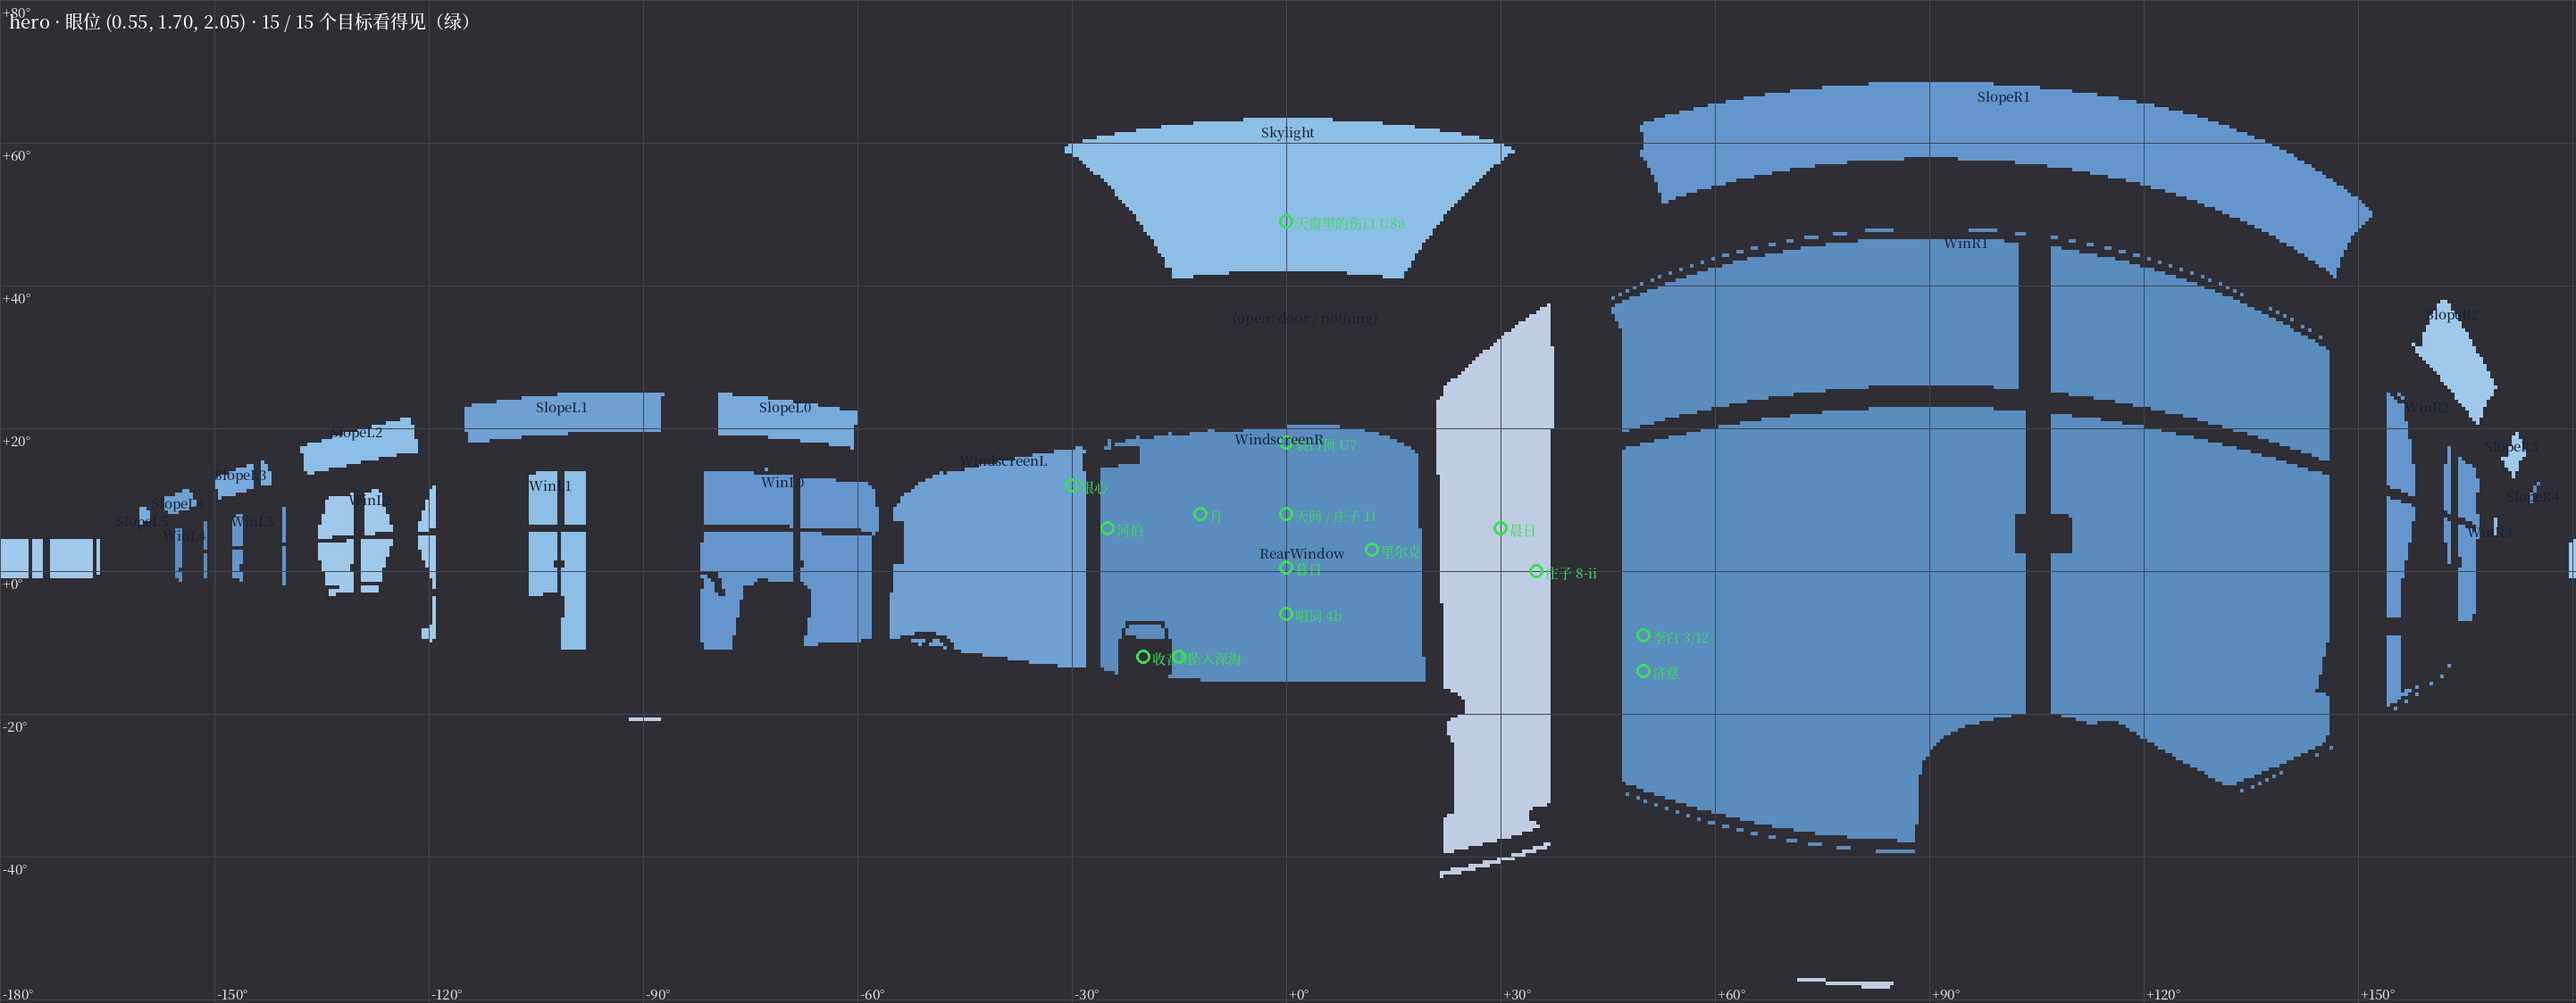
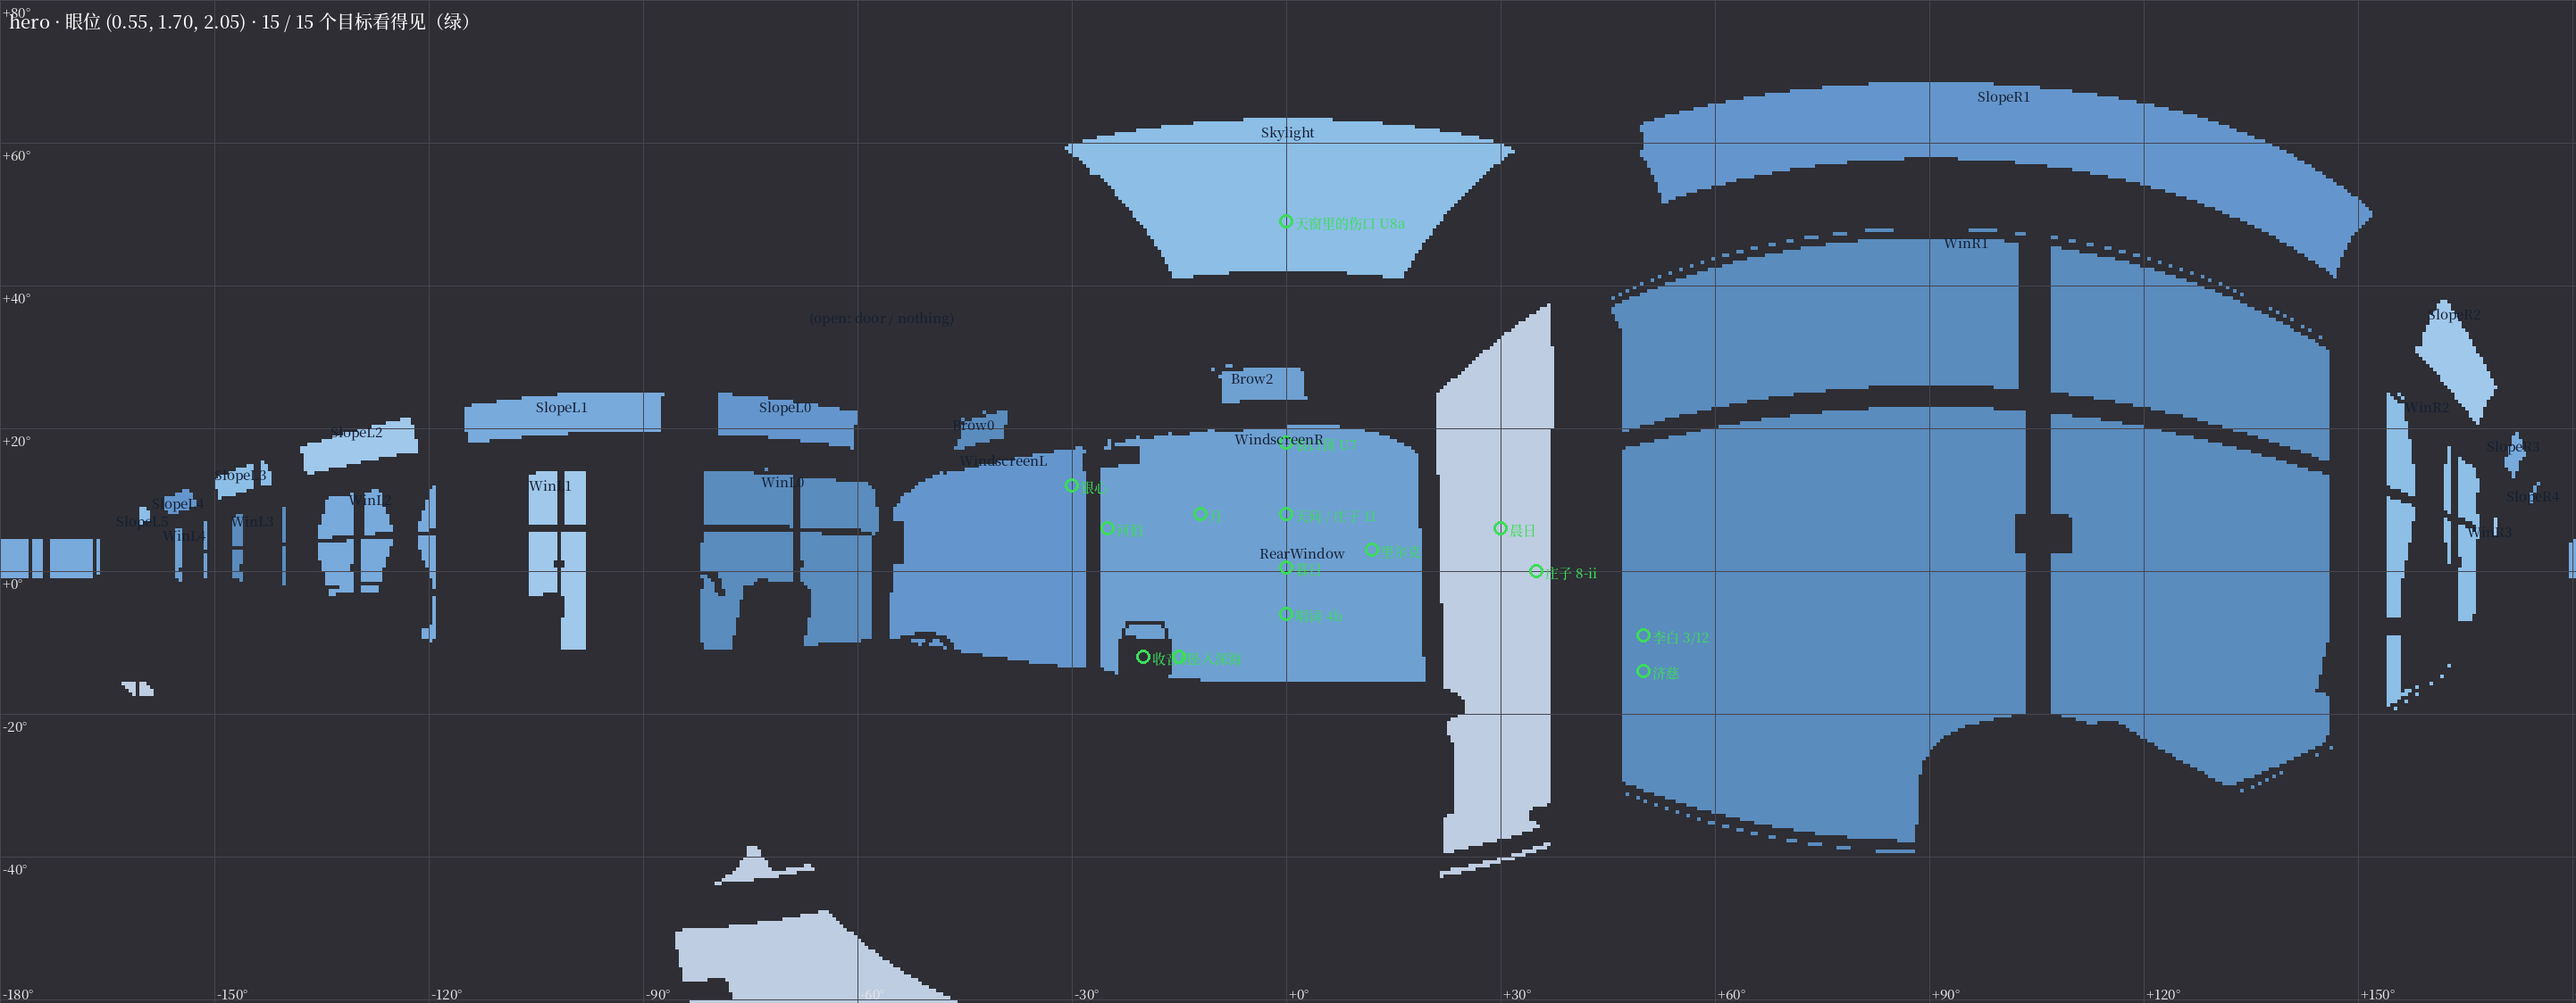
Bus: D-33 occlusion grid for other packages (hero_occlusion.npz 0.25 deg + occlusion_lookup.py, no Blender needed), refreshed view maps of the r03b bus, hero side-window structure in the README
Claude-Session: https://claude.ai/code/session_013SjpeJBeaXRUY3G1gtzNdg

diff --git a/Bus/Source/occlusion_lookup.py b/Bus/Source/occlusion_lookup.py
@@ -1,0 +1,68 @@
+# -*- coding: utf-8 -*-
+"""给别的包用的遮挡查询（D-33）：不需要 Blender。读 `Bus/Docs~/viewcheck/<name>_occlusion.npz`（viewcheck.py --export-grid 写的，
+从眼位按 0.25° 网格对真车网格打射线，记第一个碰到的不透明件；玻璃不算遮挡），回答“这个方位 / 仰角矩形被挡掉多少、被什么挡”。
+
+    from occlusion_lookup import Occlusion
+    occ = Occlusion('Bus/Docs~/viewcheck/hero_occlusion.npz')
+    occ.rect(az0, az1, el0, el1)       # -> dict(blocked=0..1, by={'Body': 0.12, ...}, window={'WindscreenR': 0.9, ...})
+    occ.point(az, el)                  # -> ('WindscreenR' | 'open' | 不透明件名, opaque bool)
+
+命令行：python3 Bus/Source/occlusion_lookup.py --rect 2.0,13.0,-8.0,-2.5 [--grid ...]
+方位 0 = 车头、+ = 右（车门一侧）；仰角 + = 上；度。眼位见 npz 里的 eye。网格 0.25°：比这更细的东西（< 0.25° 的细件）可能漏掉，
+要精确就用 viewcheck.py 直接对网格打（见 README）。
+"""
+import argparse
+import json
+import os
+
+import numpy as np
+
+HERE = os.path.dirname(os.path.abspath(__file__))
+
+
+class Occlusion:
+    def __init__(self, path=os.path.join(HERE, '..', 'Docs~', 'viewcheck', 'hero_occlusion.npz')):
+        d = np.load(path, allow_pickle=False)
+        self.az = d['az']                    # ascending
+        self.el = d['el']                    # ascending
+        self.ids = d['ids']                  # [len(el), len(az)] int16: >= 0 opaque part id, -1 open air, <= -2 window (-2 - k)
+        self.parts = json.loads(str(d['parts']))
+        self.windows = json.loads(str(d['windows']))
+        self.eye = d['eye'].tolist()
+
+    def _cells(self, az0, az1, el0, el1):
+        ia = np.where((self.az >= min(az0, az1)) & (self.az <= max(az0, az1)))[0]
+        ie = np.where((self.el >= min(el0, el1)) & (self.el <= max(el0, el1)))[0]
+        return self.ids[np.ix_(ie, ia)]
+
+    def rect(self, az0, az1, el0, el1):
+        c = self._cells(az0, az1, el0, el1)
+        n = c.size
+        if n == 0:
+            return dict(blocked=0.0, by={}, window={}, cells=0)
+        by, win = {}, {}
+        for v, k in zip(*np.unique(c, return_counts=True)):
+            if v >= 0:
+                by[self.parts[v]] = round(k / n, 4)
+            elif v == -1:
+                win['open'] = round(k / n, 4)
+            else:
+                win[self.windows[-2 - v]] = round(k / n, 4)
+        return dict(blocked=round(float((c >= 0).sum()) / n, 4), by=by, window=win, cells=int(n))
+
+    def point(self, az, el):
+        i = int(np.argmin(np.abs(self.el - el)))
+        j = int(np.argmin(np.abs(self.az - az)))
+        v = int(self.ids[i, j])
+        if v >= 0:
+            return self.parts[v], True
+        return ('open' if v == -1 else self.windows[-2 - v]), False
+
+
+if __name__ == '__main__':
+    ap = argparse.ArgumentParser()
+    ap.add_argument('--grid', default=os.path.join(HERE, '..', 'Docs~', 'viewcheck', 'hero_occlusion.npz'))
+    ap.add_argument('--rect', required=True, help='az0,az1,el0,el1 (degrees)')
+    a = ap.parse_args()
+    r = [float(v) for v in a.rect.split(',')]
+    print(json.dumps(Occlusion(a.grid).rect(*r), ensure_ascii=False, indent=1))

diff --git a/Bus/Source/viewcheck.py b/Bus/Source/viewcheck.py
@@ -77,6 +77,7 @@ def main():
     ap.add_argument('--name', default='hero')
     ap.add_argument('--step', type=float, default=0.5)
     ap.add_argument('--no-build', action='store_true')
+    ap.add_argument('--export-grid', type=float, default=0.0, help='also write <name>_occlusion.npz at this step (deg) for occlusion_lookup.py (D-33)')
     a = ap.parse_args()
     eye = tuple(float(v) for v in a.eye.split(','))
     if not a.no_build:
@@ -110,6 +111,25 @@ def main():
     if len(ii):
         win['(open: door / nothing)'] = dict(az=[float(azs[jj].min()), float(azs[jj].max())], el=[float(els[ii].min()), float(els[ii].max())], solid_angle_cells=int(len(ii)))
     json.dump(win, open(os.path.join(a.out, a.name + '_windows.json'), 'w'), ensure_ascii=False, indent=1)
+    if a.export_grid > 0:
+        st = a.export_grid
+        gaz = np.arange(-180, 180 + 1e-6, st)
+        gel = np.arange(-60, 80 + 1e-6, st)
+        ids = np.zeros((len(gel), len(gaz)), np.int16)
+        parts, wins = {}, {}
+        for i, el in enumerate(gel):
+            for j, az in enumerate(gaz):
+                passed, opq = cast(bvh, owner, eb, U2B(B.dir_az_el(az, el)))
+                if opq is not None:
+                    ids[i, j] = parts.setdefault(opq, len(parts))
+                elif passed:
+                    ids[i, j] = -2 - wins.setdefault(passed[0], len(wins))
+                else:
+                    ids[i, j] = -1
+        np.savez_compressed(os.path.join(a.out, a.name + '_occlusion.npz'), az=gaz, el=gel, ids=ids, eye=np.array(eye),
+                            parts=json.dumps(sorted(parts, key=parts.get), ensure_ascii=False),
+                            windows=json.dumps(sorted(wins, key=wins.get), ensure_ascii=False))
+        print('[viewcheck] occlusion grid %.2f deg -> %s_occlusion.npz (%d parts, %d windows)' % (st, a.name, len(parts), len(wins)))
     # ---- the targets
     res = {}
     for nm, az0, el0 in B.TARGETS:

diff --git a/Bus/README.md b/Bus/README.md
@@ -79,6 +79,25 @@
 - 云唇的路径（「云」的 `lip_path_v1`）：只被 A 柱挡（+18.4 … +21.1°）；太阳的两次出入都在门洞正中。
 - 右外后视镜从主座位看不见（D-28e）。
 
+### 2.1 别的包怎么查遮挡（D-33）
+
+**最快：查表（不要 Blender）。** `Docs~/viewcheck/hero_occlusion.npz` = 从主座位眼位按 0.25° 网格（方位 −180…180、仰角 −60…80）对**现在这辆车**（r03b：四片折门往后叠、低装右镜、雨刮停在挡风下沿以下）打射线，记第一个碰到的不透明件；玻璃不算遮挡。
+```python
+import sys; sys.path.insert(0, 'Bus/Source')
+from occlusion_lookup import Occlusion
+occ = Occlusion()                                   # 默认读 Bus/Docs~/viewcheck/hero_occlusion.npz
+occ.rect(az0, az1, el0, el1)                        # {'blocked': 0..1, 'by': {不透明件: 占比}, 'window': {窗: 占比}, 'cells': n}
+occ.point(az, el)                                   # ('WindscreenR' | 'open' | 件名, 是否不透明)
+```
+命令行：`python3 Bus/Source/occlusion_lookup.py --rect=-1.1,12.1,-8.0,-2.5`（方位 0 = 车头、+ = 右；仰角 + = 上；度）。
+0.25° 的网格会漏掉比它细的东西（中柱连胶条约 2°，不会漏；4 mm 的雨刮杆远看会漏）。要精确就直接对网格打：`~/bpy/bin/python Bus/Source/viewcheck.py --out <目录> --step 0.1 --eye x,y,z --export-grid 0.1`（要 Blender 5.0.1 的 bpy；建车约 5 秒，0.1° 全景约 5 分钟）。车改了，车的会话会重出这张表。
+
+### 2.2 主座位侧窗（WinR1）的真窗框（D-33：诗要放 +61° 附近）
+
+在方位 +61°，从下往上（仰角）：车身 / 窗台 … −35.5 · 胶条 −35.3 … −33.8 · **下扇玻璃 −33.8 … +20.8** · 推拉小窗的横档 +20.8 … +23.5 · **上扇（推拉小窗）+23.5 … +43.3** · 胶条、窗顶框、窗帘横杆 +43.3 … +49 · 车身 … +54.5 · 斜面窗 +54.5 … +66 · 顶棚。
+沿仰角 0°，从前往后（方位）：门把手 +36.8 … +39.8 · 门后柱 / 窗框 +39.8 … +42.8 · **折门的后叠（隔着窗玻璃看见）+42.8 … +47.0** · **WinR1 的净玻璃 +47.0 … +103.3** · 推拉窗的竖中梃 +103.3 … +107 · WinR1 +107 … +146 · 主座位那扇窗帘（全开，堆在窗的后端）+146 … +153 · 窗间柱 +153 … +154 · WinR2 …。
+所以 +61° 附近的净窗是方位 **+47 … +103°**、仰角 **−33.8 … +20.8°**（下扇）；横档在 +21 … +23.5°。窗帘不进这一段（主座位那扇全开，堆在 +146° 以后）。
+
 ---
 
 ## 3. 参考渲染
